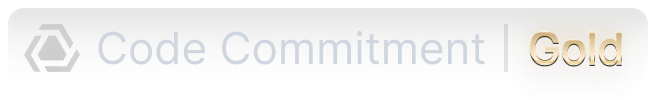
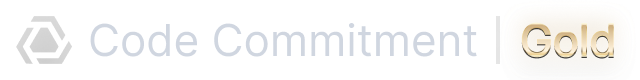
WIP

diff --git a/README.md b/README.md
@@ -8,12 +8,17 @@
       “This code is what it is because of its citizens” — Plato
     </p>
   </quote>
-  <a href="packages/code-commitment/gold">
-    <picture>
-      <source media="(prefers-color-scheme: dark)" srcset="packages/code-commitment/gold-badge-dark.png">
-      <img alt="Spear Code Commitment — Gold" src="packages/code-commitment/gold-badge-light.png" height="30" />
-    </picture>
-  </a>
+  <div align="center">
+    <a href="https://github.com/spear-ai/citizen/actions/workflows/check.yaml">
+      <img alt="Checks" src="https://github.com/spear-ai/citizen/actions/workflows/check.yaml/badge.svg">
+    </a>
+    <a href="packages/code-commitment/gold">
+      <picture>
+        <source media="(prefers-color-scheme: dark)" srcset="packages/code-commitment/gold-badge-dark.png">
+        <img alt="Spear Code Commitment — Gold" src="packages/code-commitment/gold-badge-light.png" height="20" />
+      </picture>
+    </a>
+  </div>
 </div>
 
 # Goal
